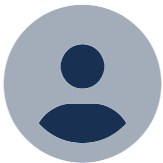
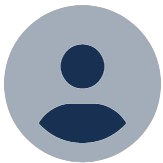
fixed form bug and reloading issue

diff --git a/client/src/Commons/NavBar.js b/client/src/Commons/NavBar.js
@@ -15,7 +15,7 @@ function NavBar() {
   return (
     <div
       id="navbar"
-      className="w-parent flex flex-row justify-between shadow-md px-4 py-2 sticky top-0 z-10 bg-bgc "
+      className="w-parent flex flex-row justify-between shadow-md px-4 py-2 sticky top-0 z-10 bg-bgc font-sans"
     >
       <div
         className="flex cursor-pointer"
@@ -28,18 +28,23 @@ function NavBar() {
           className="h-8 w-8 rounded-full mr-2"
           alt="logo"
         />
-        <div className="my-auto text-black text-xl font-sans text-justify">
+        <div className="my-auto text-black text-xl text-justify">
           Mind Cache AI
         </div>
       </div>
 
+      {userid? <button className="flex items-center justify-center ">
+        <img src="/userprofile.png" className="h-8 w-8 "/>
+        {/* <div className="flex-col items-end">Account</div> */}
+      </button>:<div>
       <button
         className="px-8 py-2 bg-blue-600 hover:bg-blue-700 text-white rounded-lg font-medium  shadow-lg text-sm"
-        onClick={()=>{if(userid){
-            navigate(`/analyse`)}else{navigate(`/signin`)}}}
+        onClick={()=>{navigate(`/signin`)}}
       >
-        {userid ? "Analyse" : "Sign In"}
+        Sign In
       </button>
+      </div>
+      }
 
     </div>
   );

diff --git a/client/src/App.js b/client/src/App.js
@@ -33,24 +33,27 @@ function RouteswithNavBar() {
     "user info : " + localStorage.getItem("userid"),
     localStorage.getItem("usertoken")
   );
-  const hideNavBarRoutes = ["/analyse", "/signin","/refund-and-cancellation"];
+  const hideNavBarRoutes = ["/analyse", "/signin", "/refund-and-cancellation"];
   const showNavBar = !hideNavBarRoutes.includes(location.pathname);
 
   return (
     <>
       {showNavBar && <NavBar />}
       <Routes>
-        {user ? (
+        {/* {user ? (
           <Route path="/" element={<Topics />} />
         ) : (
           <Route path="/" element={<HomePage />} />
-        )}
-
+        )} */}
+        <Route path="/" element={<HomePage />} />
         <Route path="/topics" element={<Topics />} />
         <Route path="/topics/:topic" element={<Thoughts />} />
         <Route path="/analyse" element={<ChatComponent />} />
         <Route path="/signin" element={<SignIn />} />
-        <Route path="/refund-and-cancellation" element={<RefundsAndCancellations />} />
+        <Route
+          path="/refund-and-cancellation"
+          element={<RefundsAndCancellations />}
+        />
       </Routes>
     </>
   );

diff --git a/client/src/Components/AddTopic.js b/client/src/Components/AddTopic.js
@@ -7,7 +7,8 @@ function AddTopic({ onClosedialog }) {
   const { setTopics } = useContext(DataContext);
   let newTopic = "";
 
-  async function handleCreate() {
+  async function handleCreate(event) {
+    event.preventDefault();
     if (newTopic !== "") {
       const result = await AddTopicAPI(newTopic);
       console.log(result);
@@ -49,9 +50,9 @@ function AddTopic({ onClosedialog }) {
           <div className="flex justify-center ">
             <button
               className="py-2 flex-1 bg-blue-600 hover:bg-blue-700 text-white text-base rounded-lg  "
-              onClick={() => {
-                handleCreate();
-              }}
+              // onClick={() => {
+              //   handleCreate();
+              // }}
               type="submit"
             >
               Add

diff --git a/client/src/Components/TopicLanding.js b/client/src/Components/TopicLanding.js
@@ -11,12 +11,15 @@ function TopicLanding({ emptydata }) {
   const [topic, setTopic] = useState("");
   const { setTopics } = useContext(DataContext);
 
-  async function handleCreate() {
+  async function handleCreate(event) {
+    event.preventDefault();
     if (topic !== "") {
+      console.log("called api");
       const result = await AddTopicAPI(topic);
       if (result.success) {
+       console.log("result success");
         setTopics(result.data);
-        // emptydata(false);
+        emptydata(false);
         navigate(`/topics`);
       }else{
         //toast

diff --git a/client/src/HomePage.js b/client/src/HomePage.js
@@ -2,9 +2,16 @@ import { useNavigate } from "react-router-dom";
 import TypingAnimation from "./utils/TypeAnimation";
 import Footer from "./Commons/Footer";
 import BenefitsDropdown from "./Components/Benifits";
+import { useEffect } from "react";
 
 function HomePage() {
   const navigate = useNavigate();
+
+  useEffect(()=>{
+    if(localStorage.getItem('userid')){
+      navigate(`/topics`)
+    }
+  },[])
 
   function Intro() {
     return (

diff --git a/client/src/Components/Topics.js b/client/src/Components/Topics.js
@@ -27,6 +27,7 @@ function Topics() {
   };
 
   useEffect(() => {
+    console.log("topics mount");
     const fetchTopics = async () => {
       try {
         const response = await fetch(
